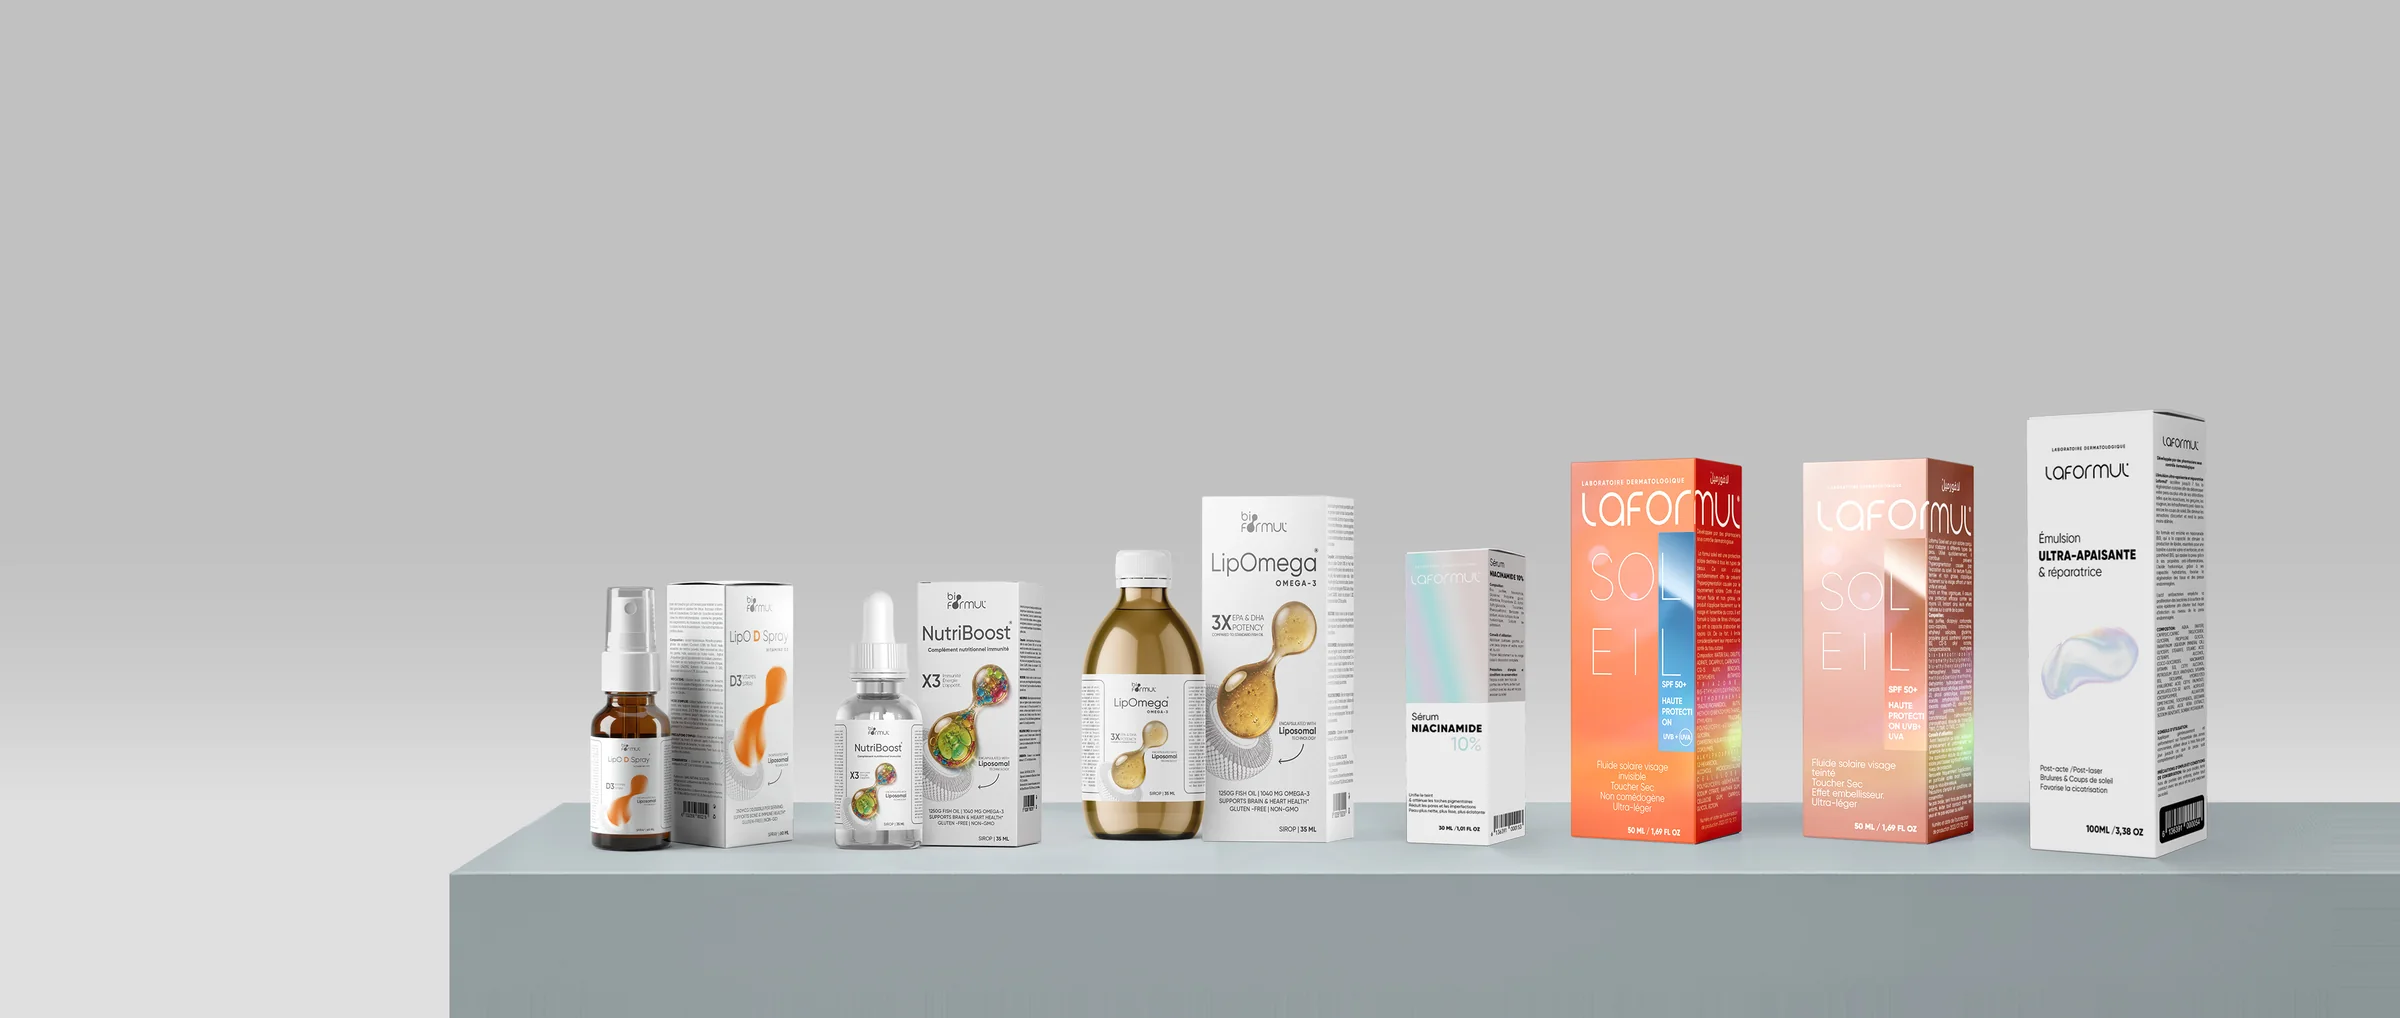
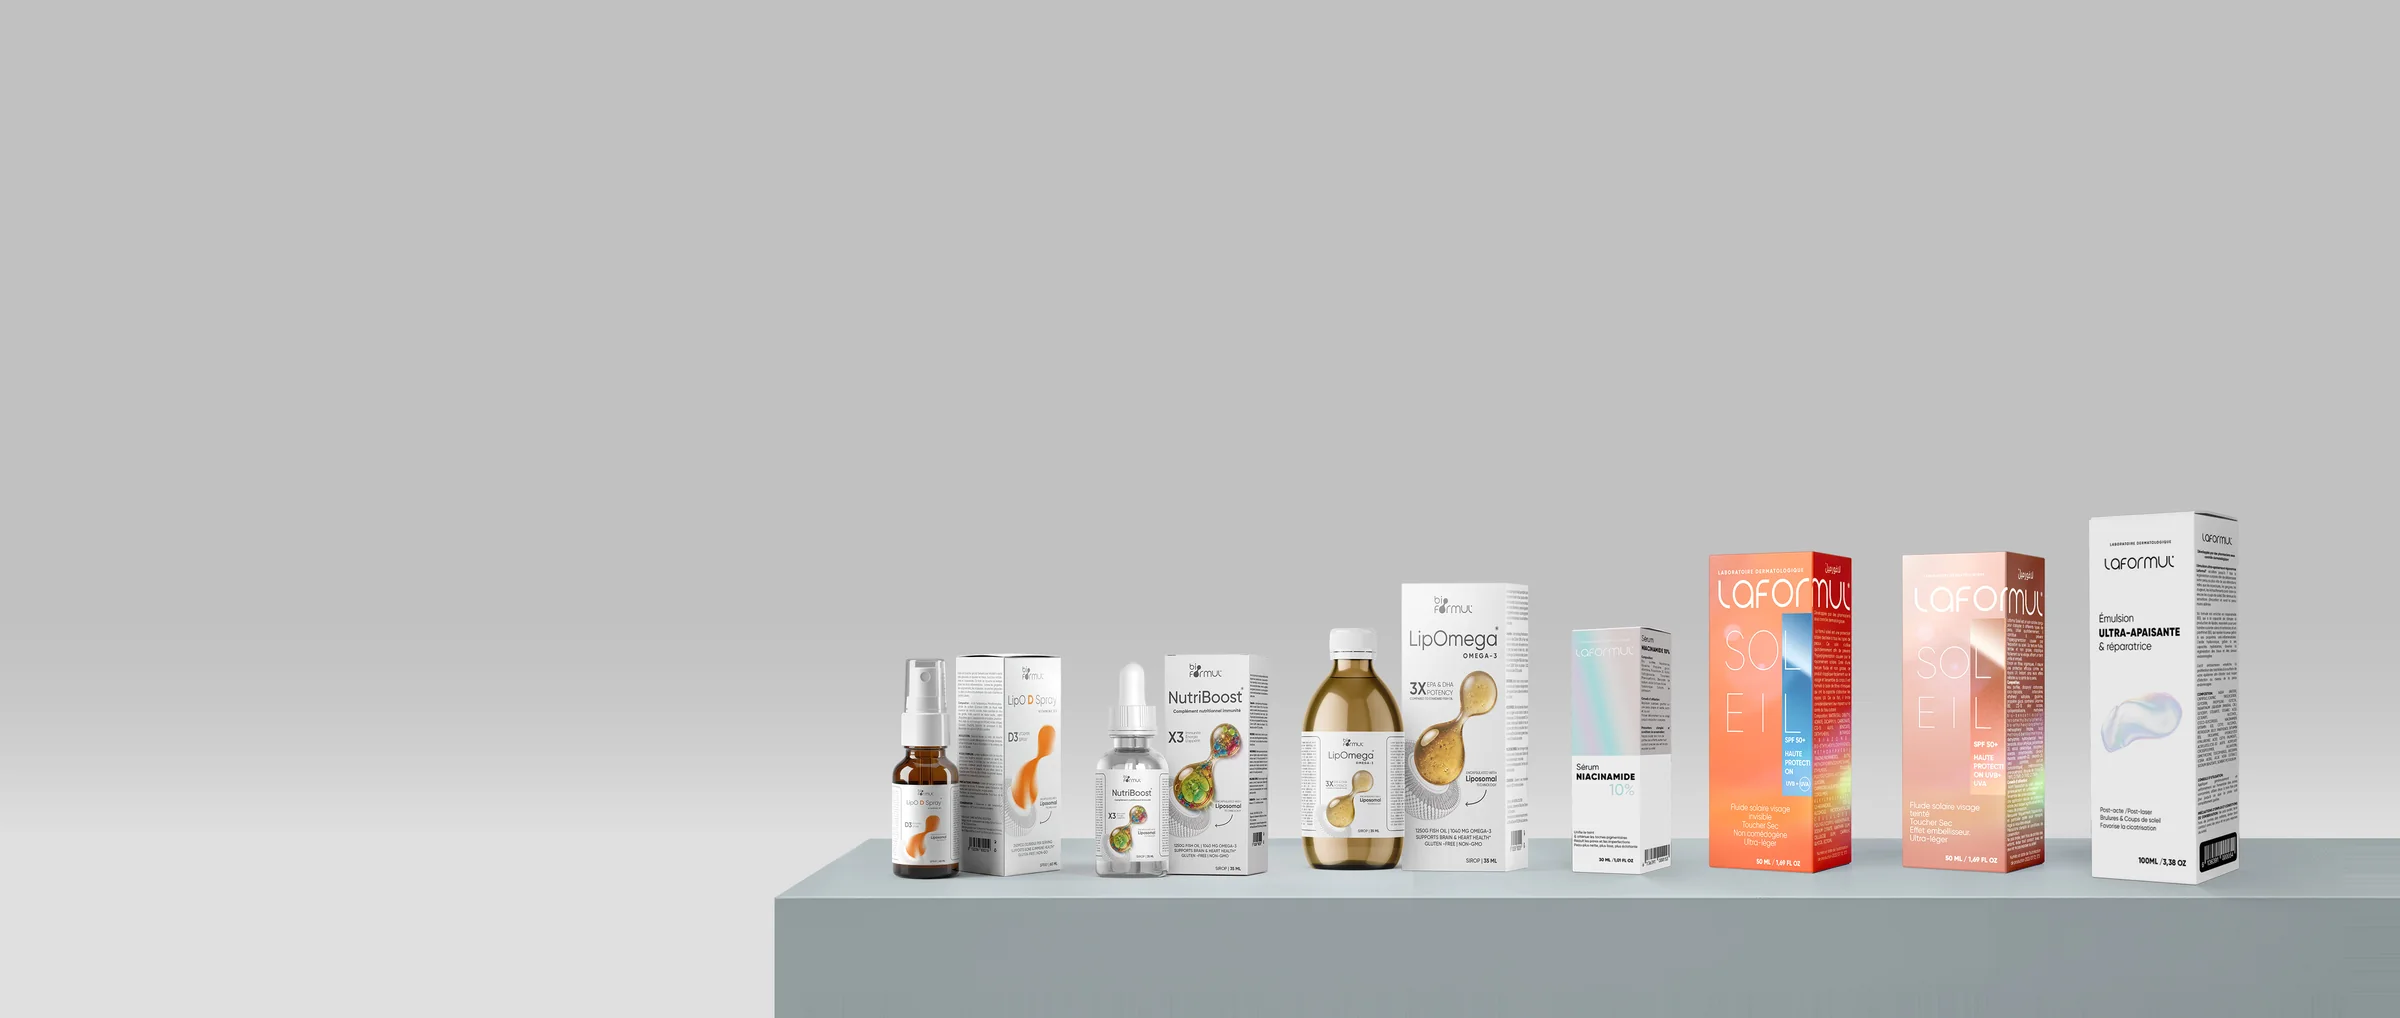
Use the wider Laformul panorama in the case-study opener
The new cut (4620x1128, 4.1:1) moves the range right and leaves the
left third to the backdrop, where the type sits, so type and packs no
longer share any column at any width. Brought to the posters' 2.36:1
the same way as before - its flat #C1C1C1 top extended upward, nothing
cut (2400x1018 WebP q84, 59 KB). The phone crop is re-measured on it:
.645 to .965, between the LipOmega carton and the serum and past the
Emulsion carton.

Claude-Session: https://claude.ai/code/session_01YFVgKLYjoLL86S4jtZWEa6

Changed region(s): [[0.1875, 0.3959, 1.0, 1.0]]

diff --git a/assets/site.css b/assets/site.css
@@ -378,10 +378,10 @@ a{color:inherit;}
      here, as on the other posters, the picture is cropped - to the four
      Laformul packs, Niacinamide to Emulsion. The frame is a fixed ratio
      rather than a share of the poster, so the cut is the same at every
-     phone width: 38% of the picture's width, from .568 - in the gap
-     between the LipOmega carton (ends .563) and the serum (starts .585) -
-     to .948, past the Emulsion carton (ends .919). */
-  .poster-pano .poster-photo{aspect-ratio:.896; max-height:none; object-position:91.6% 100%;}
+     phone width: 32% of the picture's width, from .645 - in the gap
+     between the LipOmega carton (ends .637) and the serum (starts .654) -
+     to .965, past the Emulsion carton (ends .933). */
+  .poster-pano .poster-photo{aspect-ratio:.755; max-height:none; object-position:94.85% 100%;}
 }
 
 /* the client's own mark, oversized and cropped — the hero's device,

diff --git a/ar/work/evolab.html b/ar/work/evolab.html
@@ -12,7 +12,7 @@
 <link rel="preconnect" href="https://fonts.googleapis.com">
 <link rel="preconnect" href="https://fonts.gstatic.com" crossorigin>
 <link href="https://fonts.googleapis.com/css2?family=Poppins:wght@300;400;600;700&family=IBM+Plex+Mono:wght@400;500&family=IBM+Plex+Sans+Arabic:wght@300;400;600;700&display=swap" rel="stylesheet">
-<link rel="stylesheet" href="../../assets/site.css?v=3f2575ca">
+<link rel="stylesheet" href="../../assets/site.css?v=2815f214">
 <style id="boot-css">
   /* Boot screen. Inlined because a screen whose job is to cover the wait
      must not itself wait on a request. Only the ground, the mark and the

diff --git a/ar/work/laformul.html b/ar/work/laformul.html
@@ -12,7 +12,7 @@
 <link rel="preconnect" href="https://fonts.googleapis.com">
 <link rel="preconnect" href="https://fonts.gstatic.com" crossorigin>
 <link href="https://fonts.googleapis.com/css2?family=Poppins:wght@300;400;600;700&family=IBM+Plex+Mono:wght@400;500&family=IBM+Plex+Sans+Arabic:wght@300;400;600;700&display=swap" rel="stylesheet">
-<link rel="stylesheet" href="../../assets/site.css?v=3f2575ca">
+<link rel="stylesheet" href="../../assets/site.css?v=2815f214">
 <style id="boot-css">
   /* Boot screen. Inlined because a screen whose job is to cover the wait
      must not itself wait on a request. Only the ground, the mark and the

diff --git a/ar/work/natural-solution.html b/ar/work/natural-solution.html
@@ -12,7 +12,7 @@
 <link rel="preconnect" href="https://fonts.googleapis.com">
 <link rel="preconnect" href="https://fonts.gstatic.com" crossorigin>
 <link href="https://fonts.googleapis.com/css2?family=Poppins:wght@300;400;600;700&family=IBM+Plex+Mono:wght@400;500&family=IBM+Plex+Sans+Arabic:wght@300;400;600;700&display=swap" rel="stylesheet">
-<link rel="stylesheet" href="../../assets/site.css?v=3f2575ca">
+<link rel="stylesheet" href="../../assets/site.css?v=2815f214">
 <style id="boot-css">
   /* Boot screen. Inlined because a screen whose job is to cover the wait
      must not itself wait on a request. Only the ground, the mark and the

diff --git a/ar/index.html b/ar/index.html
@@ -12,7 +12,7 @@
 <link rel="preconnect" href="https://fonts.googleapis.com">
 <link rel="preconnect" href="https://fonts.gstatic.com" crossorigin>
 <link href="https://fonts.googleapis.com/css2?family=Poppins:wght@200;300;400;600;700&family=IBM+Plex+Mono:wght@400;500&family=IBM+Plex+Sans+Arabic:wght@300;400;600;700&display=swap" rel="stylesheet">
-<link rel="stylesheet" href="../assets/site.css?v=3f2575ca">
+<link rel="stylesheet" href="../assets/site.css?v=2815f214">
 <style id="boot-css">
   /* Boot screen. Inlined because a screen whose job is to cover the wait
      must not itself wait on a request. Only the ground, the mark and the

diff --git a/ar/about.html b/ar/about.html
@@ -12,7 +12,7 @@
 <link rel="preconnect" href="https://fonts.googleapis.com">
 <link rel="preconnect" href="https://fonts.gstatic.com" crossorigin>
 <link href="https://fonts.googleapis.com/css2?family=Poppins:wght@300;400;600;700&family=IBM+Plex+Mono:wght@400;500&family=IBM+Plex+Sans+Arabic:wght@300;400;600;700&display=swap" rel="stylesheet">
-<link rel="stylesheet" href="../assets/site.css?v=3f2575ca">
+<link rel="stylesheet" href="../assets/site.css?v=2815f214">
 <style id="boot-css">
   /* Boot screen. Inlined because a screen whose job is to cover the wait
      must not itself wait on a request. Only the ground, the mark and the

diff --git a/ar/archive.html b/ar/archive.html
@@ -12,7 +12,7 @@
 <link rel="preconnect" href="https://fonts.googleapis.com">
 <link rel="preconnect" href="https://fonts.gstatic.com" crossorigin>
 <link href="https://fonts.googleapis.com/css2?family=Poppins:wght@300;400;600;700&family=IBM+Plex+Mono:wght@400;500&family=IBM+Plex+Sans+Arabic:wght@300;400;600;700&display=swap" rel="stylesheet">
-<link rel="stylesheet" href="../assets/site.css?v=3f2575ca">
+<link rel="stylesheet" href="../assets/site.css?v=2815f214">
 <style id="boot-css">
   /* Boot screen. Inlined because a screen whose job is to cover the wait
      must not itself wait on a request. Only the ground, the mark and the

diff --git a/ar/contact.html b/ar/contact.html
@@ -12,7 +12,7 @@
 <link rel="preconnect" href="https://fonts.googleapis.com">
 <link rel="preconnect" href="https://fonts.gstatic.com" crossorigin>
 <link href="https://fonts.googleapis.com/css2?family=Poppins:wght@300;400;600;700&family=IBM+Plex+Mono:wght@400;500&family=IBM+Plex+Sans+Arabic:wght@300;400;600;700&display=swap" rel="stylesheet">
-<link rel="stylesheet" href="../assets/site.css?v=3f2575ca">
+<link rel="stylesheet" href="../assets/site.css?v=2815f214">
 <style id="boot-css">
   /* Boot screen. Inlined because a screen whose job is to cover the wait
      must not itself wait on a request. Only the ground, the mark and the

diff --git a/work/evolab.html b/work/evolab.html
@@ -12,7 +12,7 @@
 <link rel="preconnect" href="https://fonts.googleapis.com">
 <link rel="preconnect" href="https://fonts.gstatic.com" crossorigin>
 <link href="https://fonts.googleapis.com/css2?family=Poppins:wght@300;400;600;700&family=IBM+Plex+Mono:wght@400;500&display=swap" rel="stylesheet">
-<link rel="stylesheet" href="../assets/site.css?v=2815f214">
+<link rel="stylesheet" href="../assets/site.css?v=8673ebfa">
 <style id="boot-css">
   /* Boot screen. Inlined because a screen whose job is to cover the wait
      must not itself wait on a request. Only the ground, the mark and the

diff --git a/work/laformul.html b/work/laformul.html
@@ -12,7 +12,7 @@
 <link rel="preconnect" href="https://fonts.googleapis.com">
 <link rel="preconnect" href="https://fonts.gstatic.com" crossorigin>
 <link href="https://fonts.googleapis.com/css2?family=Poppins:wght@300;400;600;700&family=IBM+Plex+Mono:wght@400;500&display=swap" rel="stylesheet">
-<link rel="stylesheet" href="../assets/site.css?v=2815f214">
+<link rel="stylesheet" href="../assets/site.css?v=8673ebfa">
 <style id="boot-css">
   /* Boot screen. Inlined because a screen whose job is to cover the wait
      must not itself wait on a request. Only the ground, the mark and the

diff --git a/work/natural-solution.html b/work/natural-solution.html
@@ -12,7 +12,7 @@
 <link rel="preconnect" href="https://fonts.googleapis.com">
 <link rel="preconnect" href="https://fonts.gstatic.com" crossorigin>
 <link href="https://fonts.googleapis.com/css2?family=Poppins:wght@300;400;600;700&family=IBM+Plex+Mono:wght@400;500&display=swap" rel="stylesheet">
-<link rel="stylesheet" href="../assets/site.css?v=2815f214">
+<link rel="stylesheet" href="../assets/site.css?v=8673ebfa">
 <style id="boot-css">
   /* Boot screen. Inlined because a screen whose job is to cover the wait
      must not itself wait on a request. Only the ground, the mark and the

diff --git a/index.html b/index.html
@@ -12,7 +12,7 @@
 <link rel="preconnect" href="https://fonts.googleapis.com">
 <link rel="preconnect" href="https://fonts.gstatic.com" crossorigin>
 <link href="https://fonts.googleapis.com/css2?family=Poppins:wght@200;300;400;600;700&family=IBM+Plex+Mono:wght@400;500&display=swap" rel="stylesheet">
-<link rel="stylesheet" href="assets/site.css?v=2815f214">
+<link rel="stylesheet" href="assets/site.css?v=8673ebfa">
 <style id="boot-css">
   /* Boot screen. Inlined because a screen whose job is to cover the wait
      must not itself wait on a request. Only the ground, the mark and the
